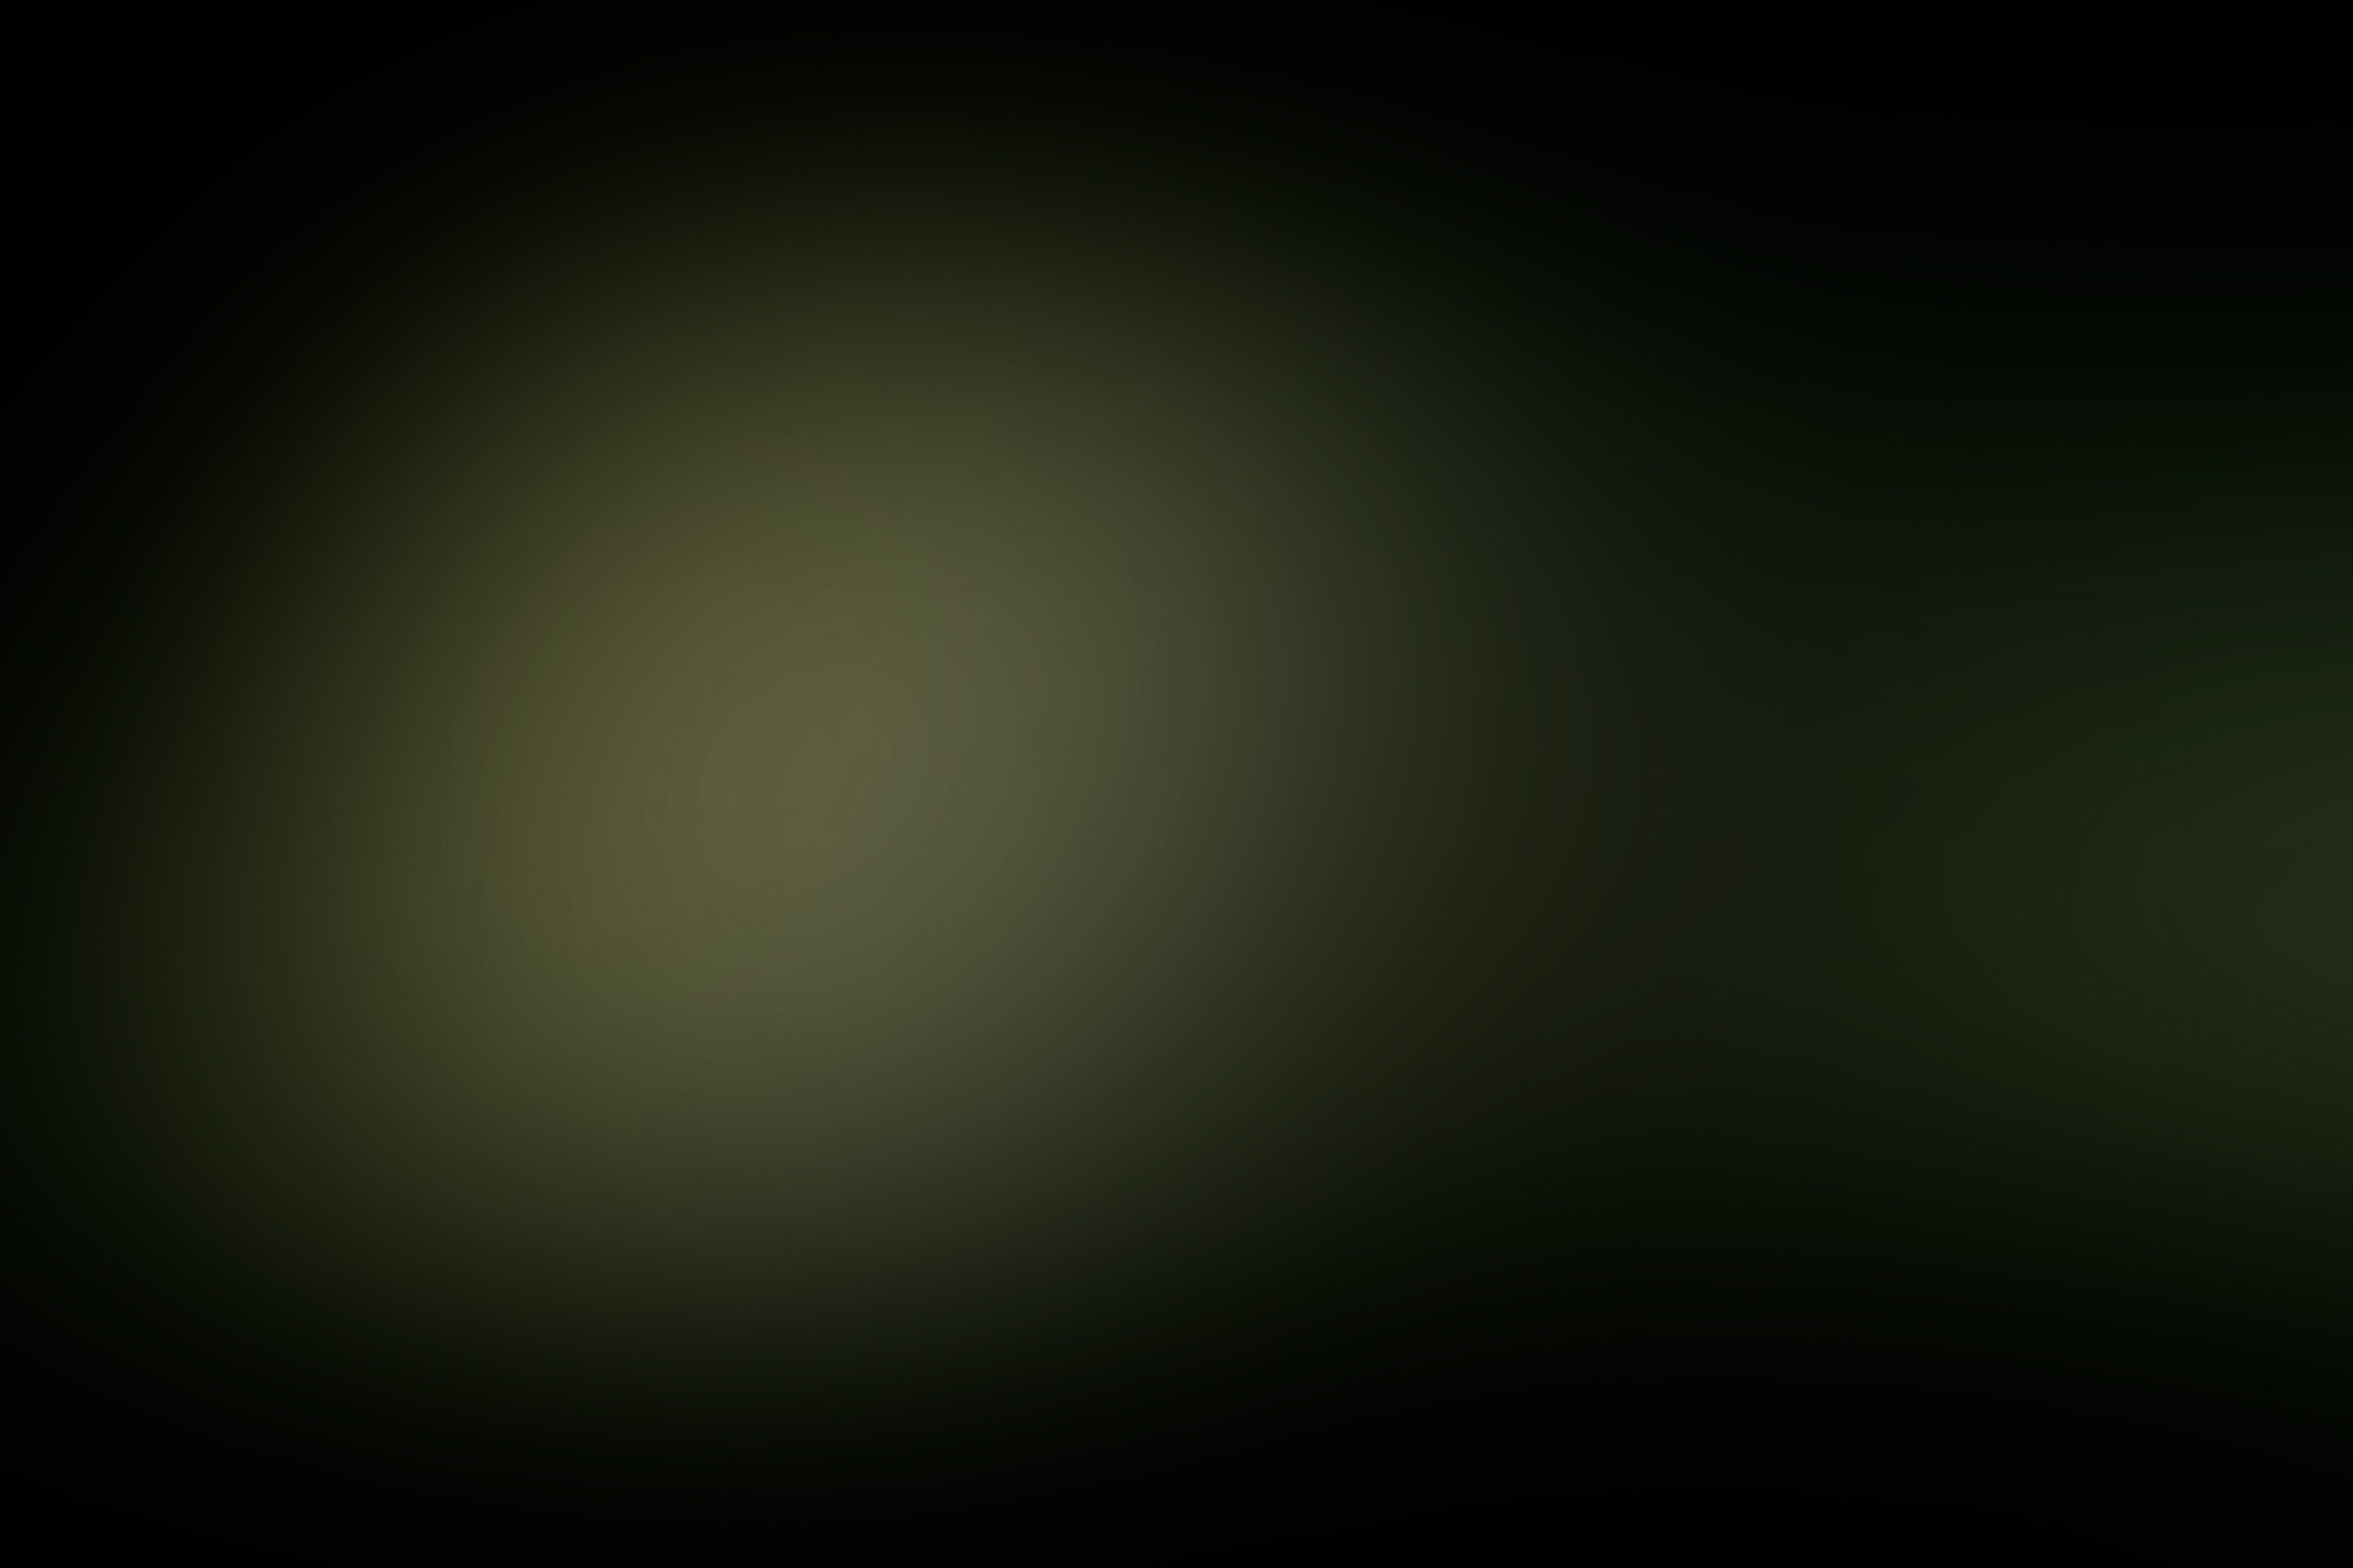
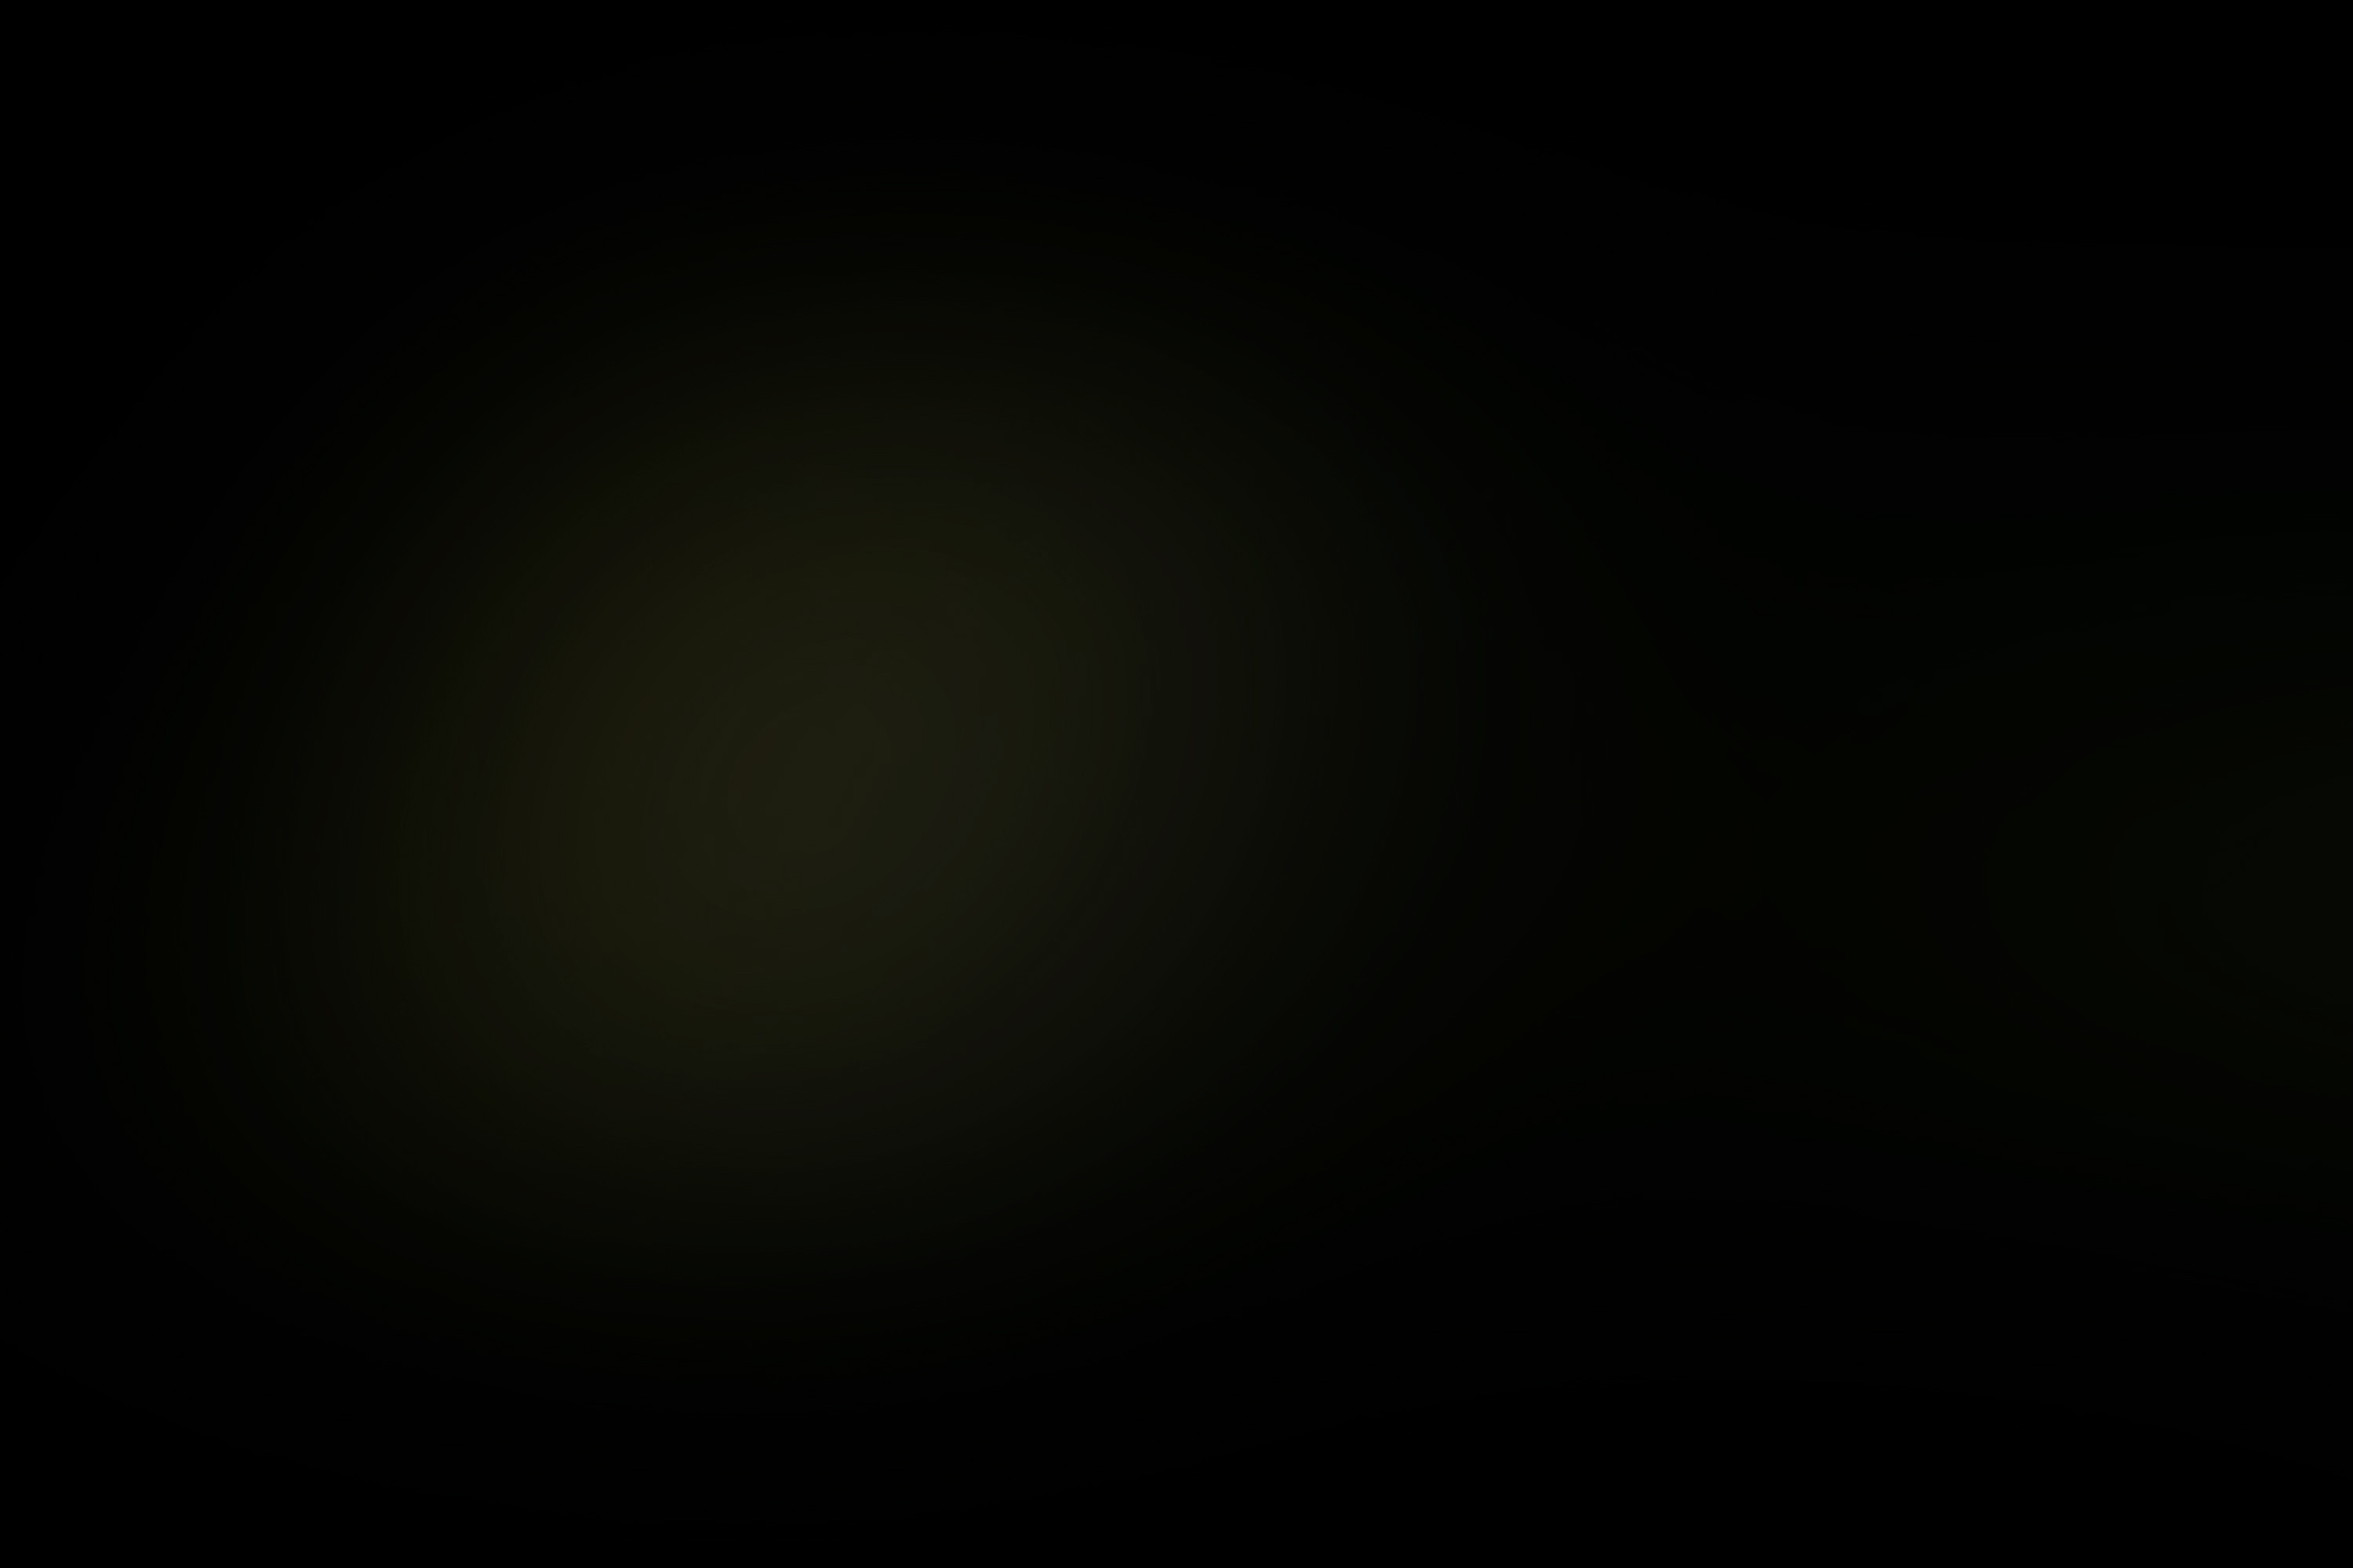
dark mode with new asset for dark mode

diff --git a/client/dashboard.html b/client/dashboard.html
@@ -19,8 +19,7 @@
 
 </head>
 
-<body>
-  <input type="button" id="btnDarkMode" value="Dark Mode" />
+<body> 
   <div id="post_image_modal" data-micromodal-close="post_image_modal">
     <div class="middle_pane" data-micromodal-close="post_image_modal">
       <div class="add_post_pane">
@@ -51,6 +50,7 @@
               <div id="menu_item_1" class="mitem" onclick="window.location.href='/dashboard'"></div>
               <div id="menu_item_2" class="mitem" data-micromodal-trigger="post_image_modal"></div>
               <div id="menu_item_3" class="mitem"></div>
+              <div id="menu_item_dark" class="mitem"></div>
               <div id="menu_item_4" class="mitem"  onclick="logout()"></div>
           </div>
         </div>
@@ -90,10 +90,30 @@
 
    <script>
 
-    var btnDarkMode = document.getElementById('btnDarkMode');
-    btnDarkMode.addEventListener('click',function() {
-        document.body.classList.toggle('DarkMode');
-    });
+    var dark_mode = false; 
+    document.getElementById("menu_item_dark").addEventListener("click", 
+      function() {
+        if(dark_mode==false){
+          document.body.classList.toggle('dark_mode');
+          $("#menu_item_1").addClass('dark');
+          $("#menu_item_2").addClass('dark');
+          $("#menu_item_3").addClass('dark');
+          $("#menu_item_4").addClass('dark');
+          $("#menu_item_dark").addClass('dark');
+          $(".post").addClass('dark');
+          dark_mode = true; 
+        } else {
+          document.body.classList.toggle('dark_mode');
+          $("#menu_item_1").removeClass('dark');
+          $("#menu_item_2").removeClass('dark');
+          $("#menu_item_3").removeClass('dark');
+          $("#menu_item_4").removeClass('dark');
+          $("#menu_item_dark").removeClass('dark');
+          $(".post").removeClass('dark');
+          dark_mode = false; 
+        }
+      }
+    , false);  
 
    MicroModal.init({
      disableScroll: true, // [5]

diff --git a/client/css/style.css b/client/css/style.css
@@ -9,7 +9,7 @@ html {
   width: 100%;
 }
 
-.DarkMode{
+.dark_mode{
   background: url("../assets/bg_dark.jpg") no-repeat center center fixed;
 }
 
@@ -310,6 +310,10 @@ button {
   background-image: url("../assets/shutdown_30.png");
 }
 
+#menu_item_dark { 
+  background-image: url("../assets/night_30.png");
+}
+
 #menu_item_1:hover {
   background-image: url("../assets/dashboard_hover_30.png");
 }
@@ -324,6 +328,30 @@ button {
 
 #menu_item_4:hover {
   background-image: url("../assets/shutdown_hover_30.png");
+}
+
+#menu_item_dark:hover {
+  background-image: url("../assets/night_hover_30.png");
+}
+
+#menu_item_1.dark {
+  background-image: url("../assets/dashboard_dark_30.png");
+}
+
+#menu_item_2.dark {
+  background-image: url("../assets/camera_dark_30.png");
+}
+
+#menu_item_3.dark {
+  background-image: url("../assets/gear_dark_30.png");
+}
+
+#menu_item_4.dark {
+  background-image: url("../assets/shutdown_dark_30.png");
+}
+
+#menu_item_dark.dark {
+  background-image: url("../assets/night_dark_30.png");
 }
 
 #indafeed {
@@ -458,6 +486,14 @@ button {
 
 .post {
   background: white;
+  padding: 20px;
+  margin-top: 30px;
+  margin-bottom: 70px;
+  box-shadow: 1px 1px 10px 1px #060606;
+}
+
+.post.dark {
+  background:rgba(151, 151, 151, 0.1); 
   padding: 20px;
   margin-top: 30px;
   margin-bottom: 70px;

diff --git a/client/index.html b/client/index.html
@@ -19,7 +19,7 @@
 </head>
 
 <body>
-  <div class="main_container">
+  <div class="main_container"> 
     <div class="middle_pane">
       <div class="login_pane">
         <div id="nologin"></div>
@@ -39,7 +39,7 @@
 
             <button class="login_button" class="float" onclick="login()">Login</button>
           </form>
-          <span id="noaccount">No account?</span> <a id="register_click" href="#" data-micromodal-trigger="register_modal">Register!</a>
+          <span id="noaccount">No account?</span> <a id="register_click" href="#" data-micromodal-trigger="register_modal">Register!</a> 
         </div>
        </div>
    		</div>
@@ -71,6 +71,7 @@
              </div>
 
              <button class="float boing" onclick="register()">Register</button>
+             
            </form>
          </div>
         </div>
@@ -83,7 +84,7 @@
   </div>
 
    <script>
-   //$('body').shards([0,255,0,1],[0,255,0,1],[255,255,55,.1],100,1,3,.9,true);
+   //$('body').shards([0,255,0,1],[0,255,0,1],[255,255,55,.1],100,1,3,.9,true); 
 
    MicroModal.init({
      disableScroll: true, // [5]
